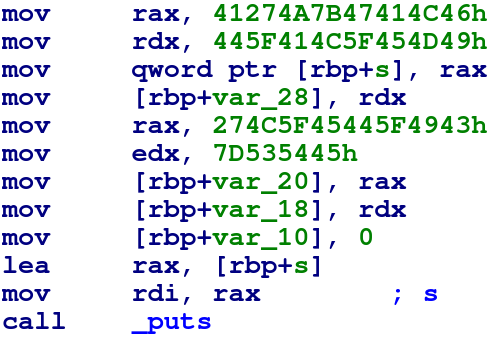
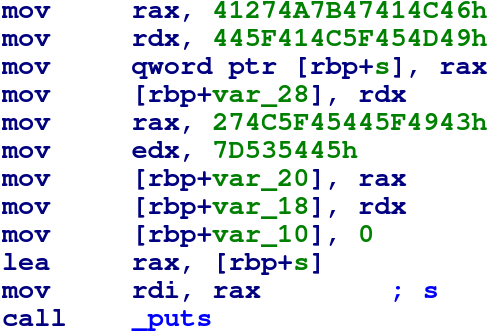
Adjust size of image about string stacking

diff --git a/main.tex b/main.tex
@@ -457,7 +457,7 @@ Source: \href{https://www.cs.virginia.edu/~evans/cs216/guides/x86.html}{x86 Asse
     \end{itemize}
 
     \begin{center}
-        \includegraphics[width=.40\textwidth,height=.40\textheight]{stringstack}
+        \includegraphics[width=.44\textwidth,height=.46\textheight]{stringstack}
     \end{center}
 
 \end{frame}
